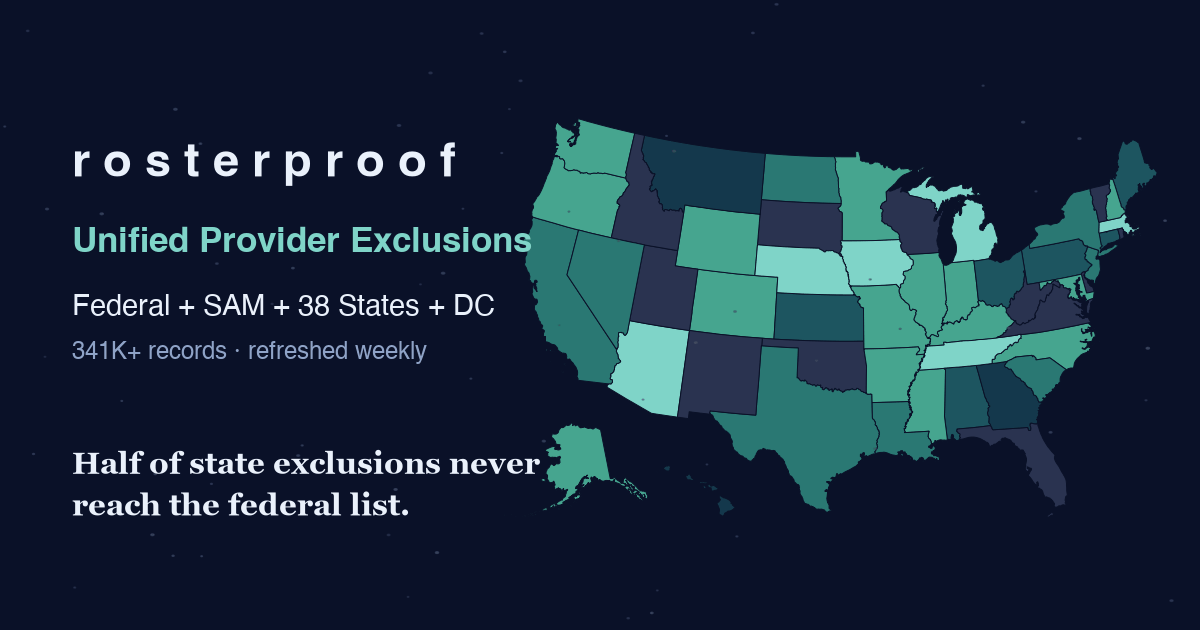
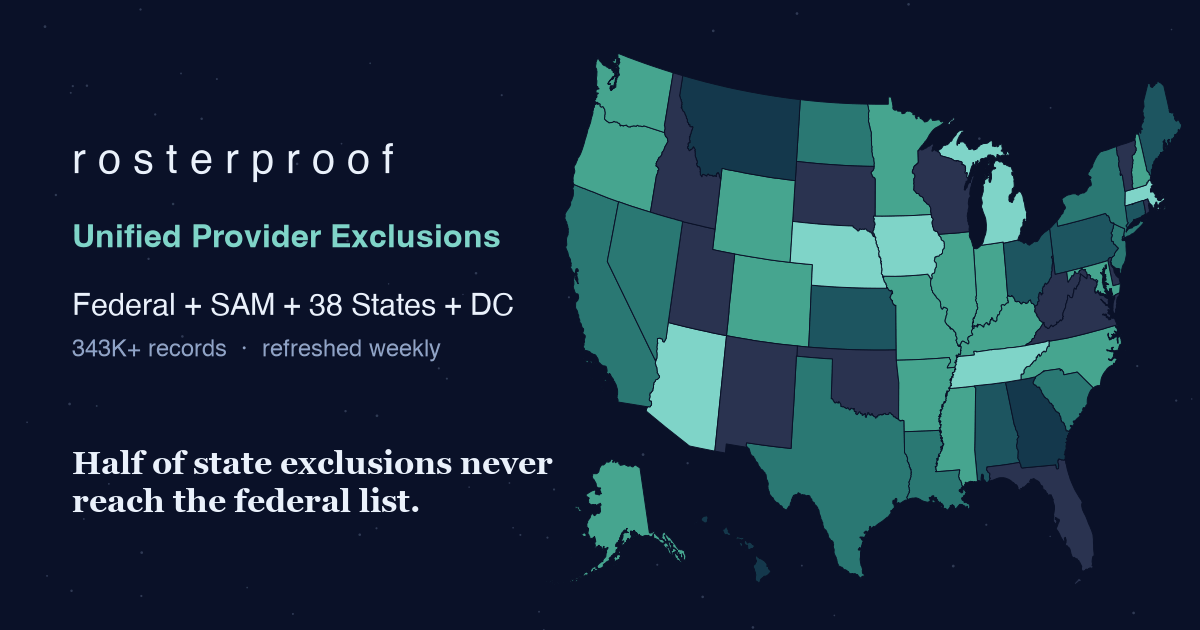
Stats: 343,332 / Federal + 38 states + DC / 56,589 verified (Sept NPPES); weekly tile data-driven; og renderer committed
- stats.json regenerated from PUBLISHED_V1 after the 2026-09-20 loads (IA Aug
  edition, MS 09-18 re-post, SAM/NY/TX/LA/AZ churn) and the September NPPES
  refresh + rematch + T4 cycle: 343,332 records, 56,589 NPPES-verified (16.4%),
  7,390 multi-jurisdiction NPIs, gap 54.4%. New field refresh_cadence='weekly'.
- Refresh tile no longer hardcodes 'Daily': it renders refresh_cadence from
  stats.json (fallback 'Weekly'); meta description 33 -> 38 states; sitemap
  changefreq weekly. Tile fallbacks refreshed (343K+, 56K+, ~54%).
- og-image regenerated (343K+, refreshed weekly) by the NEW tools/render_og.py --
  a committed, reproducible renderer using the same vendored topology, ramp and
  tokens as the live map. Every previous render lived in a lost scratchpad.

Claude-Session: https://claude.ai/code/session_015oV7EqZmV8cKhTAWcJFf86

diff --git a/index.html b/index.html
@@ -17,7 +17,7 @@
 <link rel="icon" type="image/png" sizes="16x16" href="/favicon-16.png">
 <link rel="apple-touch-icon" sizes="180x180" href="/apple-touch-icon.png">
 <link rel="icon" type="image/png" sizes="512x512" href="/icon-512.png">
-<meta name="description" content="Unified provider exclusion data: OIG LEIE, SAM.gov and 33 state Medicaid exclusion lists in one schema — NPI-resolved, history-tracked, refreshed weekly.">
+<meta name="description" content="Unified provider exclusion data: OIG LEIE, SAM.gov and 38 state Medicaid exclusion lists in one schema — NPI-resolved, history-tracked, refreshed weekly.">
 <style>
 body{font-family:-apple-system,Segoe UI,Helvetica,Arial,sans-serif;background:#0a1128;color:#eef2fb;margin:0}
 .wrap{max-width:760px;margin:0 auto;padding:72px 24px;text-align:center}
@@ -143,12 +143,12 @@ so exclusion screening becomes a simple join in your own warehouse — no scrape
 no PDFs to retype, no blind spots between the federal list and the states.</p>
 
 <div class="stats">
-<div class="stat"><div class="big" id="st-records">341K+</div><div class="small">exclusion records, history-tracked</div></div>
+<div class="stat"><div class="big" id="st-records">343K+</div><div class="small">exclusion records, history-tracked</div></div>
 <div class="stat"><div class="big" id="st-states">Federal + 38 states + DC</div><div class="small">OIG LEIE + SAM.gov plus state Medicaid exclusion lists</div></div>
-<div class="stat"><div class="big" id="st-gap">~55%</div><div class="small">of state exclusions never reach the federal LEIE — <a href="/federal-gap.html" style="color:#7fd4c8">see the full analysis</a></div></div>
-<div class="stat"><div class="big" id="st-npi">55K+</div><div class="small">NPPES-verified NPI matches — screen claims by NPI, not name-matching</div></div>
+<div class="stat"><div class="big" id="st-gap">~54%</div><div class="small">of state exclusions never reach the federal LEIE — <a href="/federal-gap.html" style="color:#7fd4c8">see the full analysis</a></div></div>
+<div class="stat"><div class="big" id="st-npi">56K+</div><div class="small">NPPES-verified NPI matches — screen claims by NPI, not name-matching</div></div>
 <div class="stat"><div class="big" id="st-multi">7.3K+</div><div class="small">providers excluded in 2+ jurisdictions — under ACA §6501, one state's exclusion is every state's problem</div></div>
-<div class="stat"><div class="big">Daily</div><div class="small">automated refresh with full change feed</div></div>
+<div class="stat"><div class="big" id="st-cadence">Weekly</div><div class="small">automated refresh with full change feed</div></div>
 </div>
 
 <div class="card">
@@ -227,6 +227,7 @@ fetch('stats.json').then(r => r.json()).then(d => {
   document.getElementById('st-gap').textContent = '~' + Math.round(d.federal_gap_overall_pct) + '%';
   document.getElementById('st-npi').textContent = fmt(d.npi_resolved.count);
   document.getElementById('st-multi').textContent = fmt(d.multi_jurisdiction_npis);
+  if (d.refresh_cadence) document.getElementById('st-cadence').textContent = d.refresh_cadence.charAt(0).toUpperCase() + d.refresh_cadence.slice(1);
   if (d.source_formats) {
     const label = {CSV:'CSV', TSV:'CSV', XLSX:'Excel', XLS:'Excel', PDF:'PDF',
                    JSON:'JSON endpoints', HTML_TABLE:'JavaScript portals'};

diff --git a/tools/render_og.py b/tools/render_og.py
@@ -1,0 +1,154 @@
+#!/usr/bin/env python3
+"""
+Render assets/og-image.png (1200x630) from stats.json + the SAME vendored
+topology the site map uses (assets/vendor/states-albers-10m.json).
+
+Why this exists (2026-09-20): the post-load protocol refreshes the og-image
+whenever a headline number changes, but every previous render lived in a
+session scratchpad and was lost -- so the image sat at "341K+" while the
+feed passed 343K. This is the committed, reproducible renderer.
+
+Design (docs/PLAYBOOKS/website.md tokens -- never improvise new colours):
+  bg #0a1128 · card #111a36 · teal #7fd4c8 · ink #eaf1fb · body #c7d2ea
+  · muted #8fa3c7 · map ramp (low->high) #14384c #1d5560 #2a7873 #46a58f
+  #7fd4c8 · map gray #2a3350 (no-list / unloaded states).
+Layout: left column = letter-spaced wordmark, teal title, coverage line,
+"NNNK+ records · refreshed <cadence>", Georgia-serif tagline; right = the
+gap map, states filled by the site's 5-step ramp (thresholds 20/40/60/80).
+
+Usage (from the site repo root, after publish_stats wrote stats.json):
+    python3 tools/render_og.py            # writes assets/og-image.png
+    python3 tools/render_og.py --out /tmp/preview.png
+Requires matplotlib + Pillow (both in the pipeline venv). Output is
+palette-quantized (256 colours) like every other flat-art PNG on the site.
+"""
+from __future__ import annotations
+
+import argparse
+import json
+import os
+import random
+
+import matplotlib
+matplotlib.use("Agg")
+import matplotlib.pyplot as plt  # noqa: E402
+from matplotlib.patches import Polygon  # noqa: E402
+from matplotlib import font_manager  # noqa: E402
+from PIL import Image  # noqa: E402
+
+ROOT = os.path.dirname(os.path.dirname(os.path.abspath(__file__)))
+BG, TEAL, INK, BODY, MUTED = "#0a1128", "#7fd4c8", "#eaf1fb", "#c7d2ea", "#8fa3c7"
+RAMP = ["#14384c", "#1d5560", "#2a7873", "#46a58f", "#7fd4c8"]
+GRAY = "#2a3350"
+
+NAME_TO_POSTAL = {
+    "Alabama": "AL", "Alaska": "AK", "Arizona": "AZ", "Arkansas": "AR", "California": "CA",
+    "Colorado": "CO", "Connecticut": "CT", "Delaware": "DE", "District of Columbia": "DC",
+    "Florida": "FL", "Georgia": "GA", "Hawaii": "HI", "Idaho": "ID", "Illinois": "IL",
+    "Indiana": "IN", "Iowa": "IA", "Kansas": "KS", "Kentucky": "KY", "Louisiana": "LA",
+    "Maine": "ME", "Maryland": "MD", "Massachusetts": "MA", "Michigan": "MI", "Minnesota": "MN",
+    "Mississippi": "MS", "Missouri": "MO", "Montana": "MT", "Nebraska": "NE", "Nevada": "NV",
+    "New Hampshire": "NH", "New Jersey": "NJ", "New Mexico": "NM", "New York": "NY",
+    "North Carolina": "NC", "North Dakota": "ND", "Ohio": "OH", "Oklahoma": "OK", "Oregon": "OR",
+    "Pennsylvania": "PA", "Rhode Island": "RI", "South Carolina": "SC", "South Dakota": "SD",
+    "Tennessee": "TN", "Texas": "TX", "Utah": "UT", "Vermont": "VT", "Virginia": "VA",
+    "Washington": "WA", "West Virginia": "WV", "Wisconsin": "WI", "Wyoming": "WY",
+    "Puerto Rico": "PR",
+}
+
+
+def step(gap_pct: float) -> int:
+    """Same thresholds as assets/site-map.js."""
+    return 4 if gap_pct >= 80 else 3 if gap_pct >= 60 else 2 if gap_pct >= 40 else 1 if gap_pct >= 20 else 0
+
+
+def decode_topology(topo: dict) -> dict[str, list[list[tuple[float, float]]]]:
+    """TopoJSON -> {postal: [ring, ...]} in the pre-projected 975x610 space."""
+    sx, sy = topo["transform"]["scale"]
+    tx, ty = topo["transform"]["translate"]
+    arcs = []
+    for arc in topo["arcs"]:
+        x = y = 0
+        pts = []
+        for dx, dy in arc:          # delta-encoded, quantized
+            x += dx
+            y += dy
+            pts.append((x * sx + tx, y * sy + ty))
+        arcs.append(pts)
+
+    def ring(arc_ids):
+        out = []
+        for i in arc_ids:
+            pts = arcs[i] if i >= 0 else list(reversed(arcs[~i]))
+            out.extend(pts if not out else pts[1:])
+        return out
+
+    shapes = {}
+    for geom in topo["objects"]["states"]["geometries"]:
+        postal = NAME_TO_POSTAL.get(geom["properties"]["name"])
+        if not postal:
+            continue
+        polys = geom["arcs"] if geom["type"] == "MultiPolygon" else [geom["arcs"]]
+        shapes[postal] = [ring(poly[0]) for poly in polys]   # exterior rings only
+    return shapes
+
+
+def headline(n: int) -> str:
+    return f"{n // 1000}K+"
+
+
+def render(stats_path: str, topo_path: str, out_path: str) -> None:
+    stats = json.load(open(stats_path))
+    shapes = decode_topology(json.load(open(topo_path)))
+    gaps = {g["state"]: g for g in stats["state_gaps"]}
+    cadence = stats.get("refresh_cadence", "weekly")
+
+    fig = plt.figure(figsize=(12, 6.3), dpi=100)
+    fig.patch.set_facecolor(BG)
+    rng = random.Random(7)                       # faint starfield, deterministic
+    ax_bg = fig.add_axes([0, 0, 1, 1]); ax_bg.set_axis_off()
+    ax_bg.set_xlim(0, 1200); ax_bg.set_ylim(0, 630)
+    ax_bg.scatter([rng.uniform(0, 1200) for _ in range(90)],
+                  [rng.uniform(0, 630) for _ in range(90)],
+                  s=[rng.uniform(1, 4) for _ in range(90)], c="#2f3b55", lw=0)
+
+    # --- map (right ~57% of the canvas) ---
+    ax = fig.add_axes([0.455, 0.05, 0.545, 0.90]); ax.set_axis_off()
+    ax.set_xlim(-10, 985); ax.set_ylim(620, -10)  # topology y grows downward
+    for postal, rings in shapes.items():
+        if postal == "PR":
+            continue
+        g = gaps.get(postal)
+        fill = RAMP[step(g["gap_pct"])] if g else GRAY
+        for r in rings:
+            ax.add_patch(Polygon(r, closed=True, facecolor=fill, edgecolor=BG, lw=0.7))
+
+    # --- text (left column) ---
+    sans_bold = font_manager.FontProperties(family=["Helvetica", "Arial", "DejaVu Sans"], weight="bold")
+    sans = font_manager.FontProperties(family=["Helvetica", "Arial", "DejaVu Sans"])
+    serif_bold = font_manager.FontProperties(family=["Georgia", "DejaVu Serif"], weight="bold")
+    t = lambda y, s, fp, size, color: ax_bg.text(72, y, s, fontproperties=fp, fontsize=size, color=color, va="center")
+    t(468, "r o s t e r p r o o f", sans, 30, INK)
+    t(392, "Unified Provider Exclusions", sans_bold, 23, TEAL)
+    dc = " + DC" if stats.get("includes_dc") else ""
+    t(324, f"Federal + SAM + {stats['states']} States{dc}", sans, 22, INK)
+    t(280, f"{headline(stats['records_total'])} records  ·  refreshed {cadence}", sans, 17, MUTED)
+    t(165, "Half of state exclusions never", serif_bold, 23, INK)
+    t(127, "reach the federal list.", serif_bold, 23, INK)
+
+    tmp = out_path + ".rgb.png"
+    fig.savefig(tmp, dpi=100, facecolor=BG)
+    plt.close(fig)
+    Image.open(tmp).convert("RGB").quantize(colors=256, method=Image.Quantize.MEDIANCUT).save(out_path, optimize=True)
+    os.remove(tmp)
+    print(f"wrote {out_path} ({os.path.getsize(out_path)//1024} KB): "
+          f"{headline(stats['records_total'])} records, {stats['states']} states{dc}, refreshed {cadence}")
+
+
+if __name__ == "__main__":
+    ap = argparse.ArgumentParser()
+    ap.add_argument("--stats", default=os.path.join(ROOT, "stats.json"))
+    ap.add_argument("--topo", default=os.path.join(ROOT, "assets", "vendor", "states-albers-10m.json"))
+    ap.add_argument("--out", default=os.path.join(ROOT, "assets", "og-image.png"))
+    a = ap.parse_args()
+    render(a.stats, a.topo, a.out)
